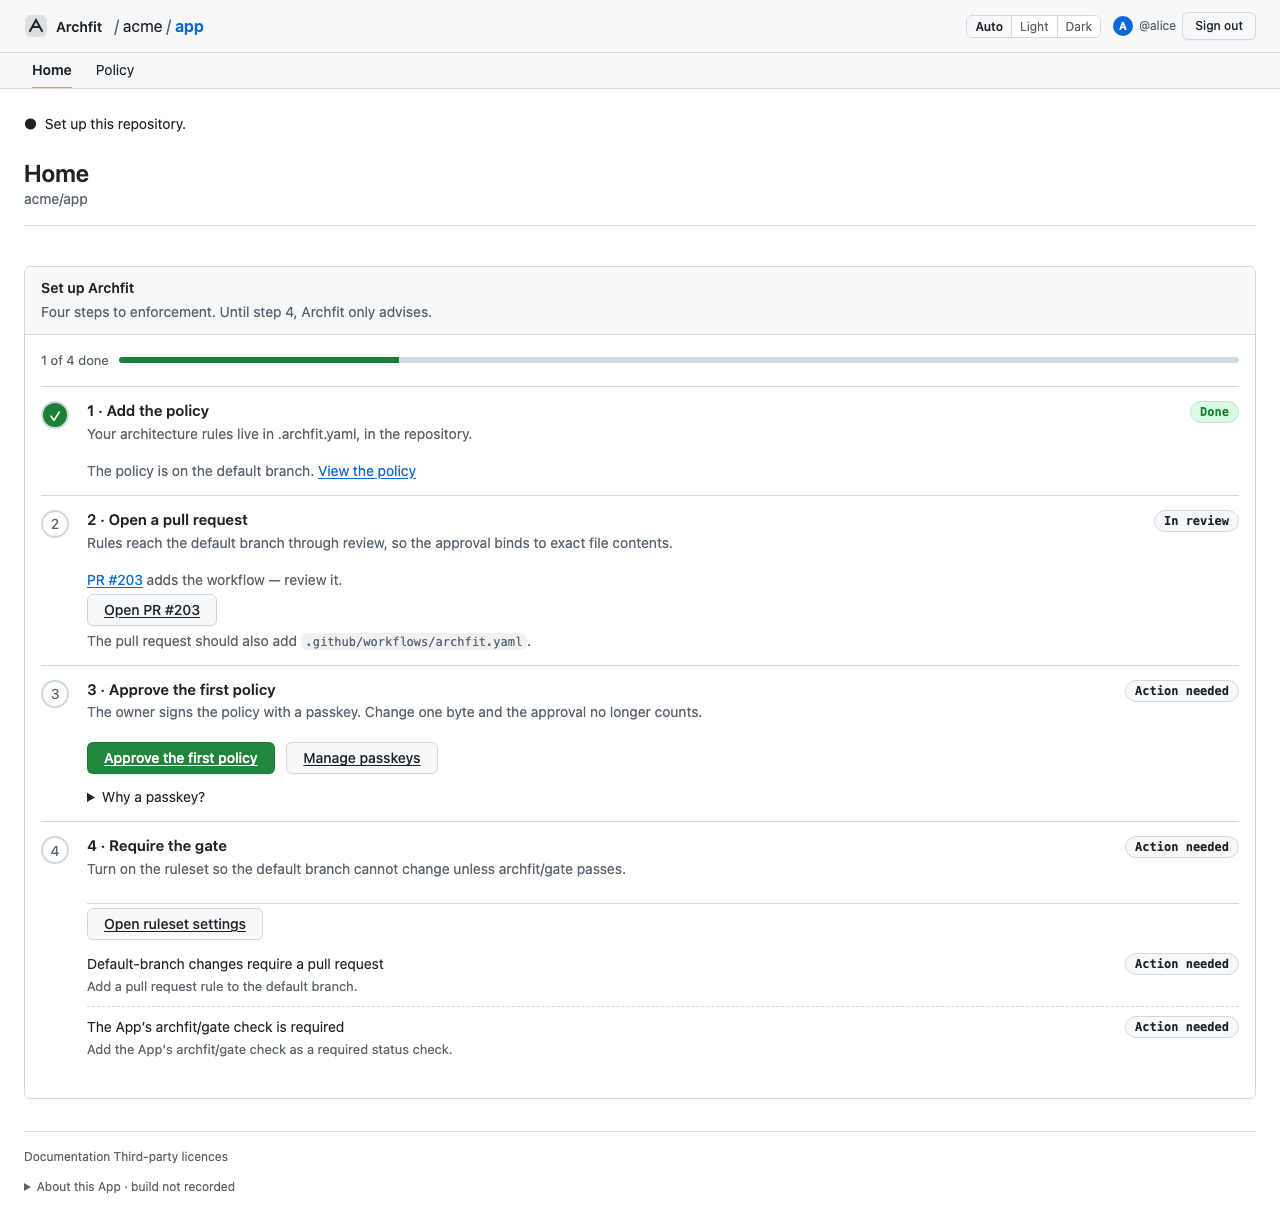
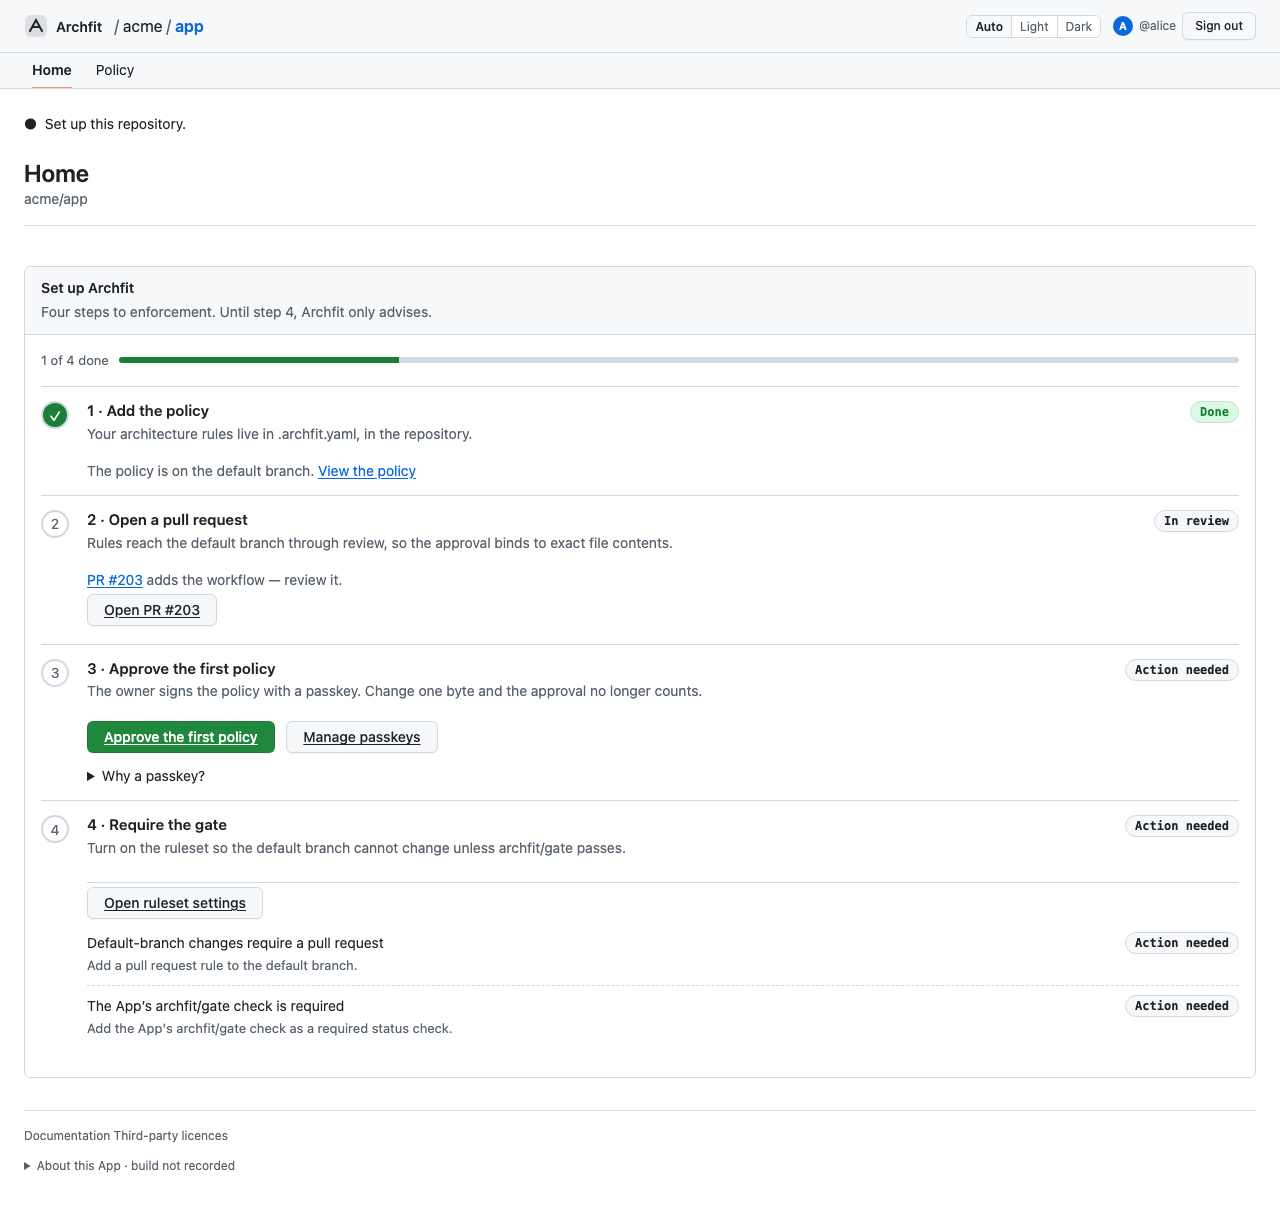
fix(web): avoid duplicate workflow instruction

diff --git a/web/e2e/home.spec.ts b/web/e2e/home.spec.ts
@@ -65,8 +65,10 @@ for (const file of names) {
         await expect(approve).toHaveClass(/primary/);
         await expect(page.getByRole('link', { name: 'Manage passkeys' })).toHaveClass(/ghost/);
       }
-      if (!body.setup.workflow)
+      if (!body.setup.workflow && body.setup.open_pull === 0)
         await expect(page.getByText('The pull request should also add .github/workflows/archfit.yaml.')).toBeVisible();
+      if (body.setup.open_pull > 0)
+        await expect(page.getByText('The pull request should also add .github/workflows/archfit.yaml.')).toHaveCount(0);
       await expect(page.getByText('ok', { exact: true })).toHaveCount(0);
       await expect(page.getByText('unknown', { exact: true })).toHaveCount(0);
       if (body.setup.rules.length)

diff --git a/web/src/components/Setup.svelte b/web/src/components/Setup.svelte
@@ -51,7 +51,7 @@
                 <p>Open one pull request that adds the policy and workflow.</p>
                 <a class="btn ghost" href={`${githubRepo}/compare`}>Open a pull request on GitHub</a>
               {/if}
-              {#if !setup.workflow}<p>The pull request should also add <code>.github/workflows/archfit.yaml</code>.</p>{/if}
+              {#if !setup.workflow && setup.open_pull === 0}<p>The pull request should also add <code>.github/workflows/archfit.yaml</code>.</p>{/if}
             {:else if i === 2}
               {#if passkeyActions.register}
                 <a class="btn primary" href={repoPage(repo.fullName, '/passkeys')}>Register a passkey</a>
